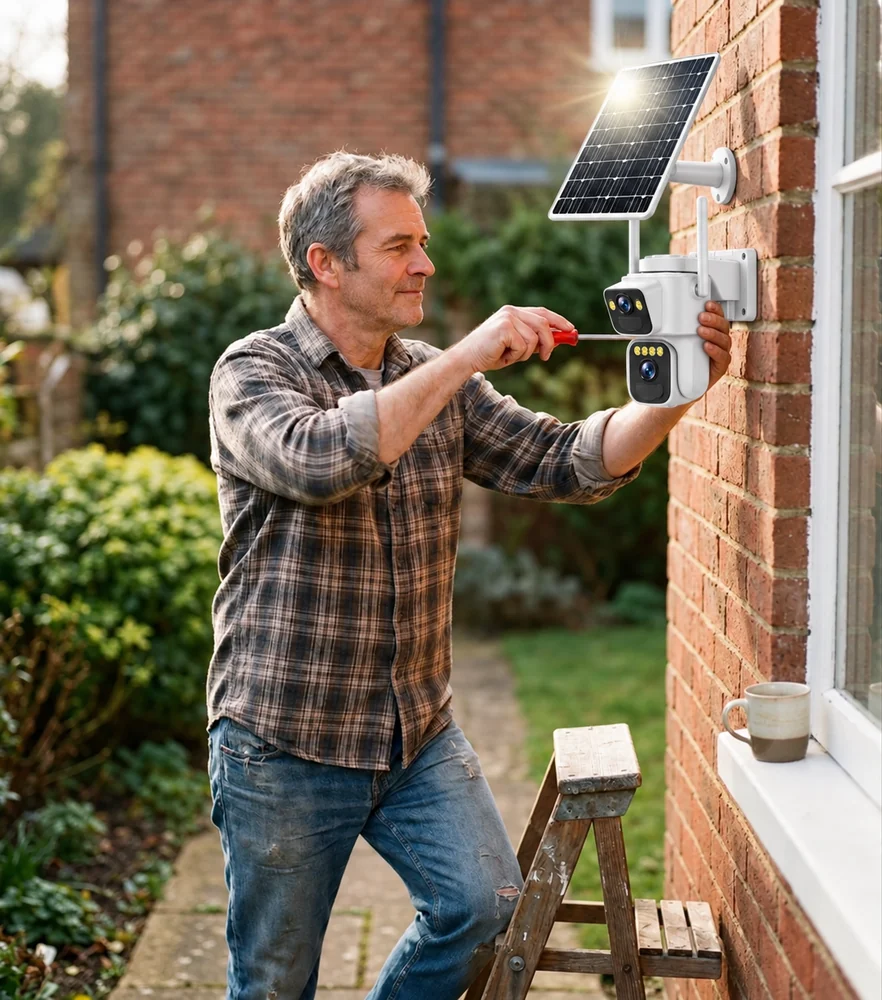
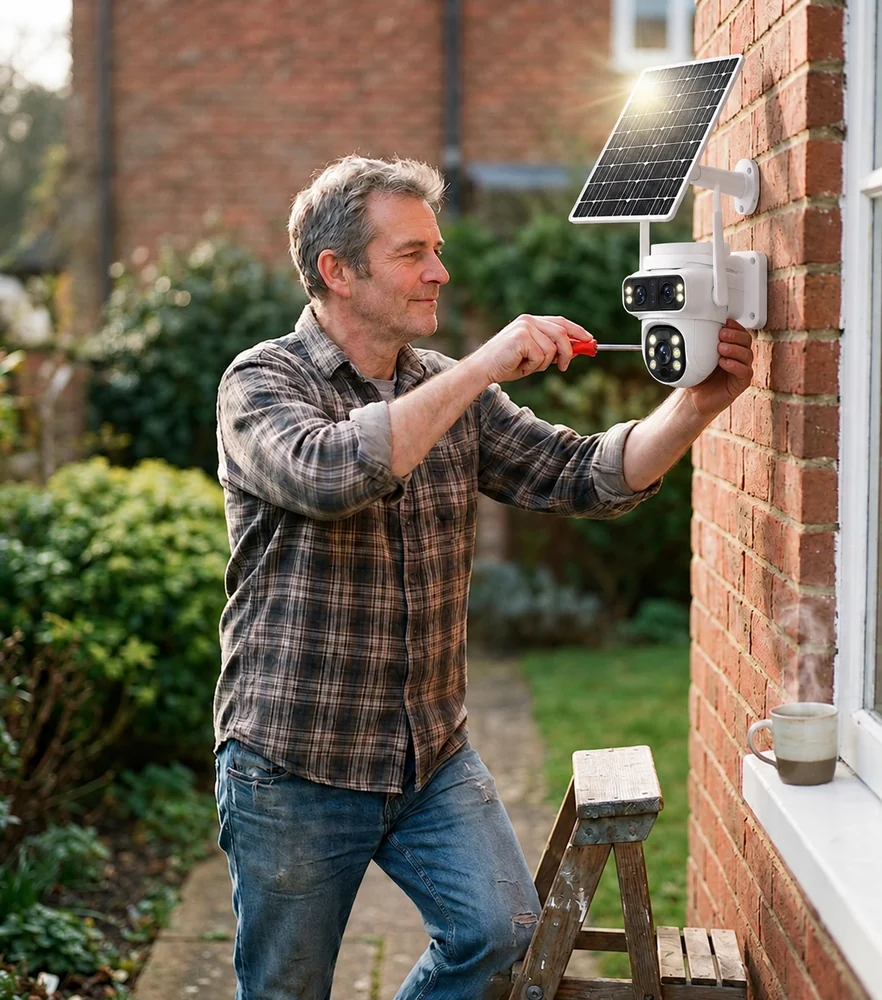
SENTRIX: foto rigenerate col design prodotto CORRETTO (dual-lens)
Il modello giusto e' una camera DUAL-LENS (due obiettivi affiancati sul modulo
superiore) + PTZ, non la vecchia a lente singola. Rifatte 11 foto sostituendo
la camera col design corretto (riferimento: hero product image dell'utente).

- hero-v2 = nuova hero dell'utente (4G Security Camera at Night, app in IT)
- 10 scene rigenerate in ChatGPT: camera sostituita col dual-lens, scena/
  persone/sfondo/telefono invariati; marchi SolarCam/LETSCEE/O-KAM Pro -> SENTRIX
  (hero kit box+guida, benefit-1 app, benefit-2 corpo, recensione-3 manuale, pacco)
- cortile-incustodito: la bullet cam sostituita con la dual-lens + pannello solare
- recensione-2 (solo screenshot app) invariata
- ?v= ricalcolati per tutte le 12 immagini

Offerta/tracciamento invariati (offer 3093 / lp 3127, AW-18412239679): le
conversioni restano condivise con SolarCam.

diff --git a/it/sentrix/landing.html b/it/sentrix/landing.html
@@ -18,7 +18,7 @@
 <meta name="theme-color" content="#14181f">
 <meta property="og:title" content="SENTRIX™ | 49,00 €">
 <meta property="og:description" content="SENTRIX™ – telecamera 4G da esterno alimentata a energia solare: funziona senza Wi-Fi e senza presa di corrente, visuale a 360°, visione notturna e avvisi di movimento direttamente sul tuo telefono">
-<meta property="og:image" content="https://nexofind.com/assets/img/products/sentrix/hero-v2.webp?v=bd96ce60">
+<meta property="og:image" content="https://nexofind.com/assets/img/products/sentrix/hero-v2.webp?v=87b29225">
 <link rel="canonical" href="https://nexofind.com/it/sentrix/landing.html">
 <link rel="icon" type="image/svg+xml" href="/favicon.svg">
 <link rel="preconnect" href="https://fonts.googleapis.com">
@@ -30,7 +30,7 @@
  "@context": "https://schema.org",
  "@type": "Product",
  "name": "SENTRIX™",
- "image": "https://nexofind.com/assets/img/products/sentrix/hero-v2.webp?v=bd96ce60",
+ "image": "https://nexofind.com/assets/img/products/sentrix/hero-v2.webp?v=87b29225",
  "description": "SENTRIX™ – telecamera 4G da esterno alimentata a energia solare: funziona senza Wi-Fi e senza presa di corrente, visuale a 360°, visione notturna e avvisi di movimento direttamente sul tuo telefono",
  "brand": {
   "@type": "Brand",
@@ -77,7 +77,7 @@ window.SITE_CONFIG = {
       </h1>
       <p class="trim-subtitle">Un terreno isolato. Una casa in campagna. Il Wi-Fi che va e viene. <strong>SENTRIX™ funziona in 4G</strong>: non ti serve né il router né la linea elettrica. <strong>Il pannello solare ricarica la batteria ogni giorno</strong>, e tu controlli le immagini <strong>24/7 direttamente dal tuo smartphone</strong>.</p>
       <div class="trim-hero__image mobile-only">
-        <img decoding="async" src="/assets/img/products/sentrix/hero-v2.webp?v=bd96ce60" alt="Telecamera SENTRIX™ 4G con pannello solare fissata al muro di casa la sera, e la stessa diretta sullo smartphone; accanto, il simbolo della rotazione a 360°" width="1000" height="1000" fetchpriority="high">
+        <img decoding="async" src="/assets/img/products/sentrix/hero-v2.webp?v=87b29225" alt="Telecamera SENTRIX™ 4G con pannello solare fissata al muro di casa la sera, e la stessa diretta sullo smartphone; accanto, il simbolo della rotazione a 360°" width="1000" height="1000" fetchpriority="high">
       </div>
       <div class="c4x-price-box">
         <div class="c4x-price-top">
@@ -132,7 +132,7 @@ window.SITE_CONFIG = {
       <a class="trim-cta" href="#FORM">ORDINA ORA</a>
     </div>
     <div class="trim-hero__image desktop-only">
-      <img decoding="async" src="/assets/img/products/sentrix/hero-v2.webp?v=bd96ce60" alt="Telecamera SENTRIX™ 4G con pannello solare fissata al muro di casa la sera, e la stessa diretta sullo smartphone; accanto, il simbolo della rotazione a 360°" width="1000" height="1000" fetchpriority="high">
+      <img decoding="async" src="/assets/img/products/sentrix/hero-v2.webp?v=87b29225" alt="Telecamera SENTRIX™ 4G con pannello solare fissata al muro di casa la sera, e la stessa diretta sullo smartphone; accanto, il simbolo della rotazione a 360°" width="1000" height="1000" fetchpriority="high">
     </div>
   </div>
 </section>
@@ -199,7 +199,7 @@ window.SITE_CONFIG = {
       <h2>Il tuo cortile resta senza nessuno che lo guardi ogni volta che parti?</h2>
     </div>
     <div class="problem-image">
-      <img decoding="async" loading="lazy" src="/assets/img/products/sentrix/cortile-incustodito.webp?v=dbce9e81" alt="Il vialetto di una casa al crepuscolo con il cancello aperto e nessuno in giro: in fondo si allontanano i fanali di un’auto, la vecchia telecamera Wi-Fi sul muro è spenta e dentro casa il router ha tutte le spie spente" width="1000" height="1000">
+      <img decoding="async" loading="lazy" src="/assets/img/products/sentrix/cortile-incustodito.webp?v=21193406" alt="Il vialetto di una casa al crepuscolo con il cancello aperto e nessuno in giro: in fondo si allontanano i fanali di un’auto, la vecchia telecamera Wi-Fi sul muro è spenta e dentro casa il router ha tutte le spie spente" width="1000" height="1000">
     </div>
     <div class="problem-copy">
       <p>Il cortile, la casa in campagna, il magazzino, il cantiere. Proprio il posto che vorresti tenere d’occhio è quasi sempre quello dove il Wi-Fi non arriva più e la presa di corrente più vicina è a decine di metri. E così la telecamera finisce appesa dove serve meno: accanto al router.</p>
@@ -226,7 +226,7 @@ window.SITE_CONFIG = {
     </div>
     <div class="t77bx-media">
       <div class="t77bx-frame">
-        <img decoding="async" loading="lazy" src="/assets/img/products/sentrix/senza-wifi-senza-cavi.webp?v=e8e919e5" alt="La SENTRIX™ fissata in alto sul muro di casa con il suo pannello solare colpito dal sole: il segnale arriva a un ripetitore della rete mobile all’orizzonte e sotto la telecamera non passa nessun cavo" width="1000" height="1000">
+        <img decoding="async" loading="lazy" src="/assets/img/products/sentrix/senza-wifi-senza-cavi.webp?v=15a6e843" alt="La SENTRIX™ fissata in alto sul muro di casa con il suo pannello solare colpito dal sole: il segnale arriva a un ripetitore della rete mobile all’orizzonte e sotto la telecamera non passa nessun cavo" width="1000" height="1000">
         <span class="t77bx-chip">📡 4G LTE</span>
       </div>
     </div>
@@ -262,7 +262,7 @@ window.SITE_CONFIG = {
     <div class="t77bn-rows">
       <div class="t77bn-row">
         <div class="t77bn-media">
-          <img decoding="async" loading="lazy" src="/assets/img/products/sentrix/benefit-1.webp?v=028899a0" alt="Una mano regge il telefono di notte: sullo schermo la notifica di movimento rilevato dalla telecamera dell’ingresso e la diretta, con la SENTRIX™ fissata al muro alle spalle" width="883" height="1000">
+          <img decoding="async" loading="lazy" src="/assets/img/products/sentrix/benefit-1.webp?v=8bca4bc9" alt="Una mano regge il telefono di notte: sullo schermo la notifica di movimento rilevato dalla telecamera dell’ingresso e la diretta, con la SENTRIX™ fissata al muro alle spalle" width="883" height="1000">
         </div>
         <div class="t77bn-c">
           <div class="t77bn-ic">📱</div>
@@ -272,7 +272,7 @@ window.SITE_CONFIG = {
       </div>
       <div class="t77bn-row t77bn-row--rev">
         <div class="t77bn-media">
-          <img decoding="async" loading="lazy" src="/assets/img/products/sentrix/benefit-2.webp?v=5ec21412" alt="Confronto: a sinistra il router Wi-Fi barrato di rosso, a destra la SENTRIX™ con il pannello solare al muro che trasmette in 4G LTE la diretta sul telefono" width="883" height="1000">
+          <img decoding="async" loading="lazy" src="/assets/img/products/sentrix/benefit-2.webp?v=4c560d72" alt="Confronto: a sinistra il router Wi-Fi barrato di rosso, a destra la SENTRIX™ con il pannello solare al muro che trasmette in 4G LTE la diretta sul telefono" width="883" height="1000">
         </div>
         <div class="t77bn-c">
           <div class="t77bn-ic">☀</div>
@@ -282,7 +282,7 @@ window.SITE_CONFIG = {
       </div>
       <div class="t77bn-row">
         <div class="t77bn-media">
-          <img decoding="async" loading="lazy" src="/assets/img/products/sentrix/benefit-3.webp?v=2bbb738a" alt="Un uomo su una scaletta avvita al muro di mattoni la SENTRIX™ con il suo pannello solare, usando solo un cacciavite" width="883" height="1000">
+          <img decoding="async" loading="lazy" src="/assets/img/products/sentrix/benefit-3.webp?v=e8b933ab" alt="Un uomo su una scaletta avvita al muro di mattoni la SENTRIX™ con il suo pannello solare, usando solo un cacciavite" width="883" height="1000">
         </div>
         <div class="t77bn-c">
           <div class="t77bn-ic">📦</div>
@@ -292,7 +292,7 @@ window.SITE_CONFIG = {
       </div>
       <div class="t77bn-row t77bn-row--rev">
         <div class="t77bn-media">
-          <img decoding="async" loading="lazy" src="/assets/img/products/sentrix/benefit-kette.webp?v=72ca1f41" alt="Un uomo fissa con un cacciavite la telecamera SENTRIX™ e il pannello solare a un muro di mattoni" width="1000" height="1000">
+          <img decoding="async" loading="lazy" src="/assets/img/products/sentrix/benefit-kette.webp?v=04c9d02d" alt="Un uomo fissa con un cacciavite la telecamera SENTRIX™ e il pannello solare a un muro di mattoni" width="1000" height="1000">
         </div>
         <div class="t77bn-c">
           <div class="t77bn-ic">🔧</div>
@@ -302,7 +302,7 @@ window.SITE_CONFIG = {
       </div>
       <div class="t77bn-row">
         <div class="t77bn-media">
-          <img decoding="async" loading="lazy" src="/assets/img/products/sentrix/hero.webp?v=dee70306" alt="Il kit SENTRIX™ completo su fondo bianco: telecamera, pannello solare, staffe, antenne, SIM, viti, guida e confezione" width="1000" height="1000">
+          <img decoding="async" loading="lazy" src="/assets/img/products/sentrix/hero.webp?v=fbab909c" alt="Il kit SENTRIX™ completo su fondo bianco: telecamera, pannello solare, staffe, antenne, SIM, viti, guida e confezione" width="1000" height="1000">
         </div>
         <div class="t77bn-c">
           <div class="t77bn-ic">📶</div>
@@ -325,7 +325,7 @@ window.SITE_CONFIG = {
     <div class="reviews-grid">
       <div class="review-card">
         <div class="review-image">
-          <img decoding="async" loading="lazy" src="/assets/img/products/sentrix/recensione-1.webp?v=71ce3eb8" alt="Foto di un cliente: la SENTRIX™ a doppio obiettivo montata sulla parete di legno azzurra di casa" width="800" height="1000">
+          <img decoding="async" loading="lazy" src="/assets/img/products/sentrix/recensione-1.webp?v=03698240" alt="Foto di un cliente: la SENTRIX™ a doppio obiettivo montata sulla parete di legno azzurra di casa" width="800" height="1000">
         </div>
         <div class="review-content">
           <div class="review-stars">★★★★★</div>
@@ -347,7 +347,7 @@ window.SITE_CONFIG = {
       </div>
       <div class="review-card">
         <div class="review-image">
-          <img decoding="async" loading="lazy" src="/assets/img/products/sentrix/recensione-3.webp?v=96e410dc" alt="Foto di un cliente: il contenuto della confezione appoggiato a terra, telecamera, pannello solare, staffa, antenne, cavi e guida" width="800" height="1000">
+          <img decoding="async" loading="lazy" src="/assets/img/products/sentrix/recensione-3.webp?v=5605d388" alt="Foto di un cliente: il contenuto della confezione appoggiato a terra, telecamera, pannello solare, staffa, antenne, cavi e guida" width="800" height="1000">
         </div>
         <div class="review-content">
           <div class="review-stars">★★★★★</div>
@@ -367,7 +367,7 @@ window.SITE_CONFIG = {
       <p>2 anni di garanzia e assistenza clienti dedicata</p>
     </div>
     <div class="kit-photo">
-      <img decoding="async" loading="lazy" src="/assets/img/products/sentrix/pacco.webp?v=fe5401c7" alt="Tutto il contenuto della confezione SENTRIX™ visto dall’alto: telecamera a doppio obiettivo, pannello solare, staffa, antenne, SIM, scheda di memoria, viti, cavo, guida rapida e scatola" width="883" height="1000">
+      <img decoding="async" loading="lazy" src="/assets/img/products/sentrix/pacco.webp?v=4c612f0f" alt="Tutto il contenuto della confezione SENTRIX™ visto dall’alto: telecamera a doppio obiettivo, pannello solare, staffa, antenne, SIM, scheda di memoria, viti, cavo, guida rapida e scatola" width="883" height="1000">
     </div>
     <div class="kit-table">
       <div class="kit-table-header">
